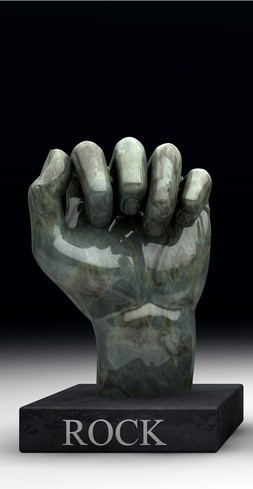
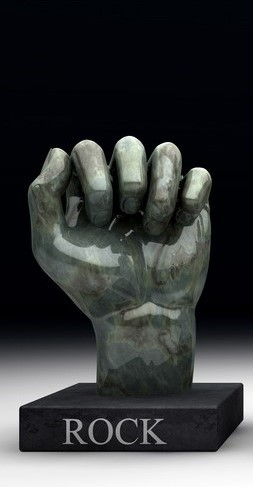
Fixed images displaying wrong on smaller devices

diff --git a/js/rps.js b/js/rps.js
@@ -78,8 +78,8 @@ function rpsFrontEnd(humanImageChoice, botImageChoice, finalMessage) {
     messageDiv.appendChild(messageResultDiv);
     botDiv.appendChild(botChoiceDiv);
 
-    humanChoiceDiv.innerHTML = "<img src='" + imagesDatabase[humanImageChoice] + "'>";
-    botChoiceDiv.innerHTML = "<img src='" + imagesDatabase[botImageChoice] + "'>";
+    humanChoiceDiv.innerHTML = "<img style='width: 90%' src='" + imagesDatabase[humanImageChoice] + "'>";
+    botChoiceDiv.innerHTML = "<img style='width: 90%' src='" + imagesDatabase[botImageChoice] + "'>";
     messageResultDiv.innerHTML = "<h1 style='color: " + finalMessage['color'] + "; font-size: 60px; padding-top: 50%; '>" + finalMessage['message'] + "</h1>";
 
     document.getElementById('resetButtonDiv').style.display = "inline";

diff --git a/css/main.css b/css/main.css
@@ -618,6 +618,11 @@ body {
 }
 
 /* Rock, Paper, Scissors classes*/
+
+.rpsImg {
+    width: 90%;
+}
+
 .rpsImgDiv:hover .rpsImg {
     opacity: 0.3;
     transition: .5s ease;
